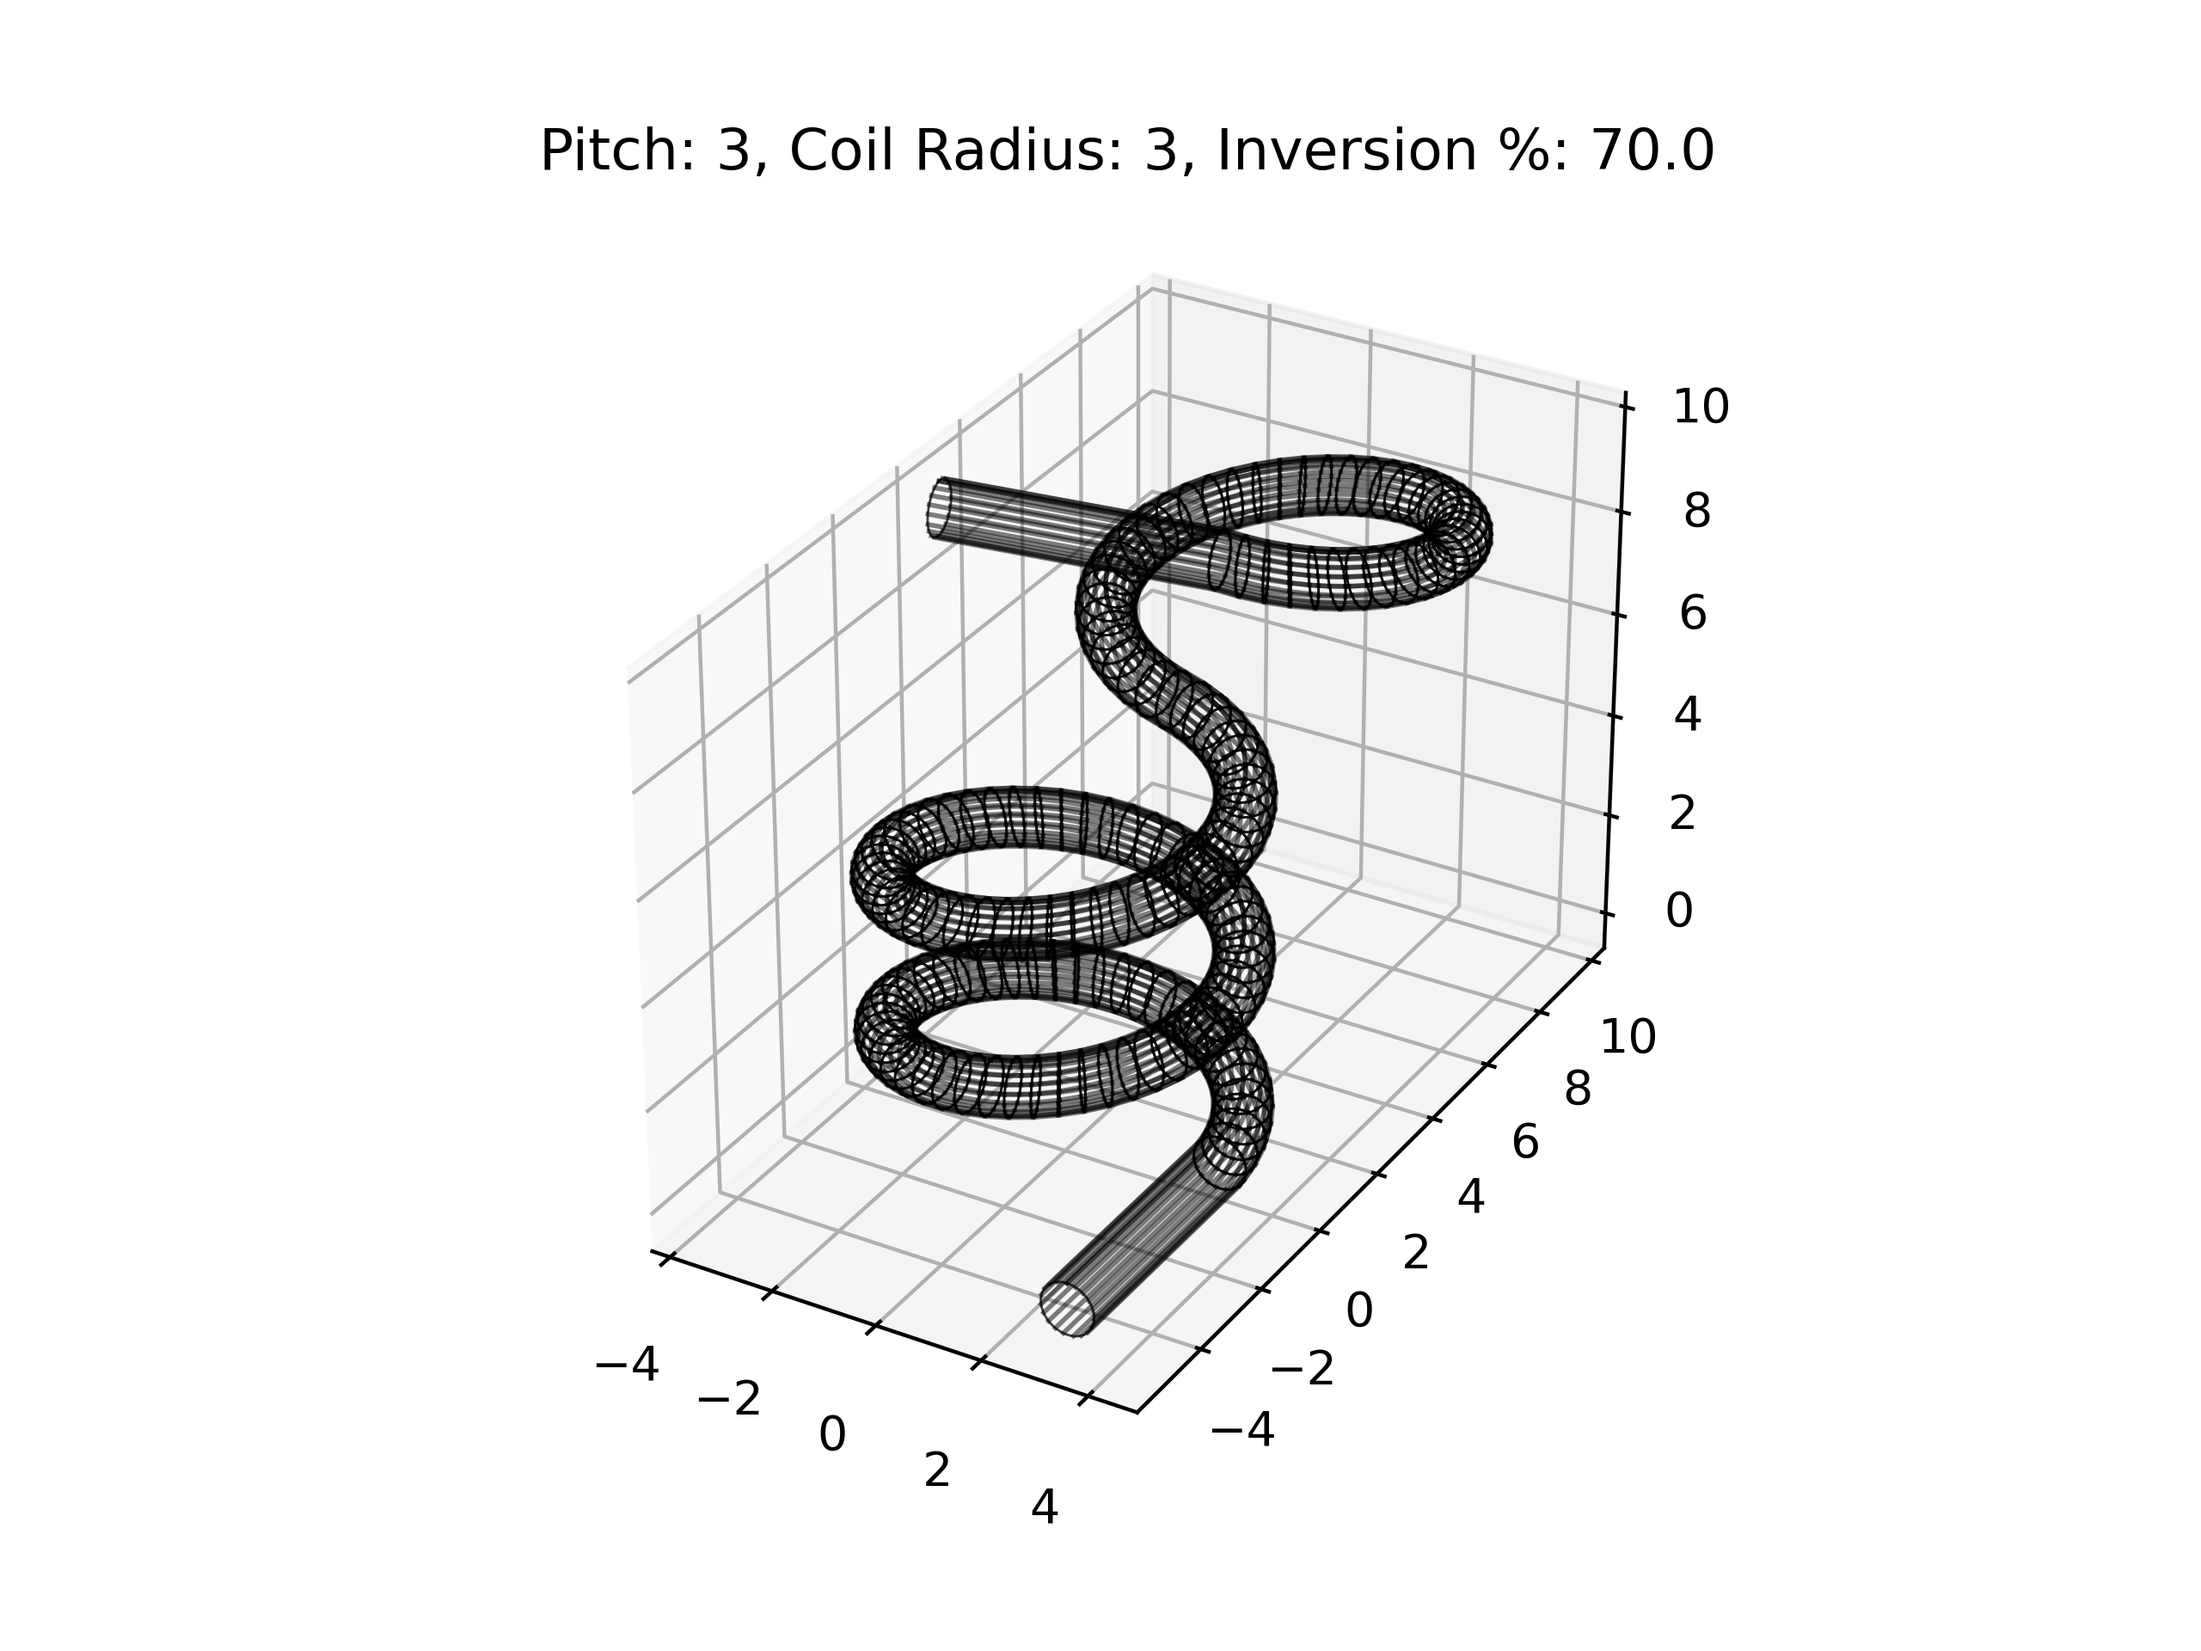
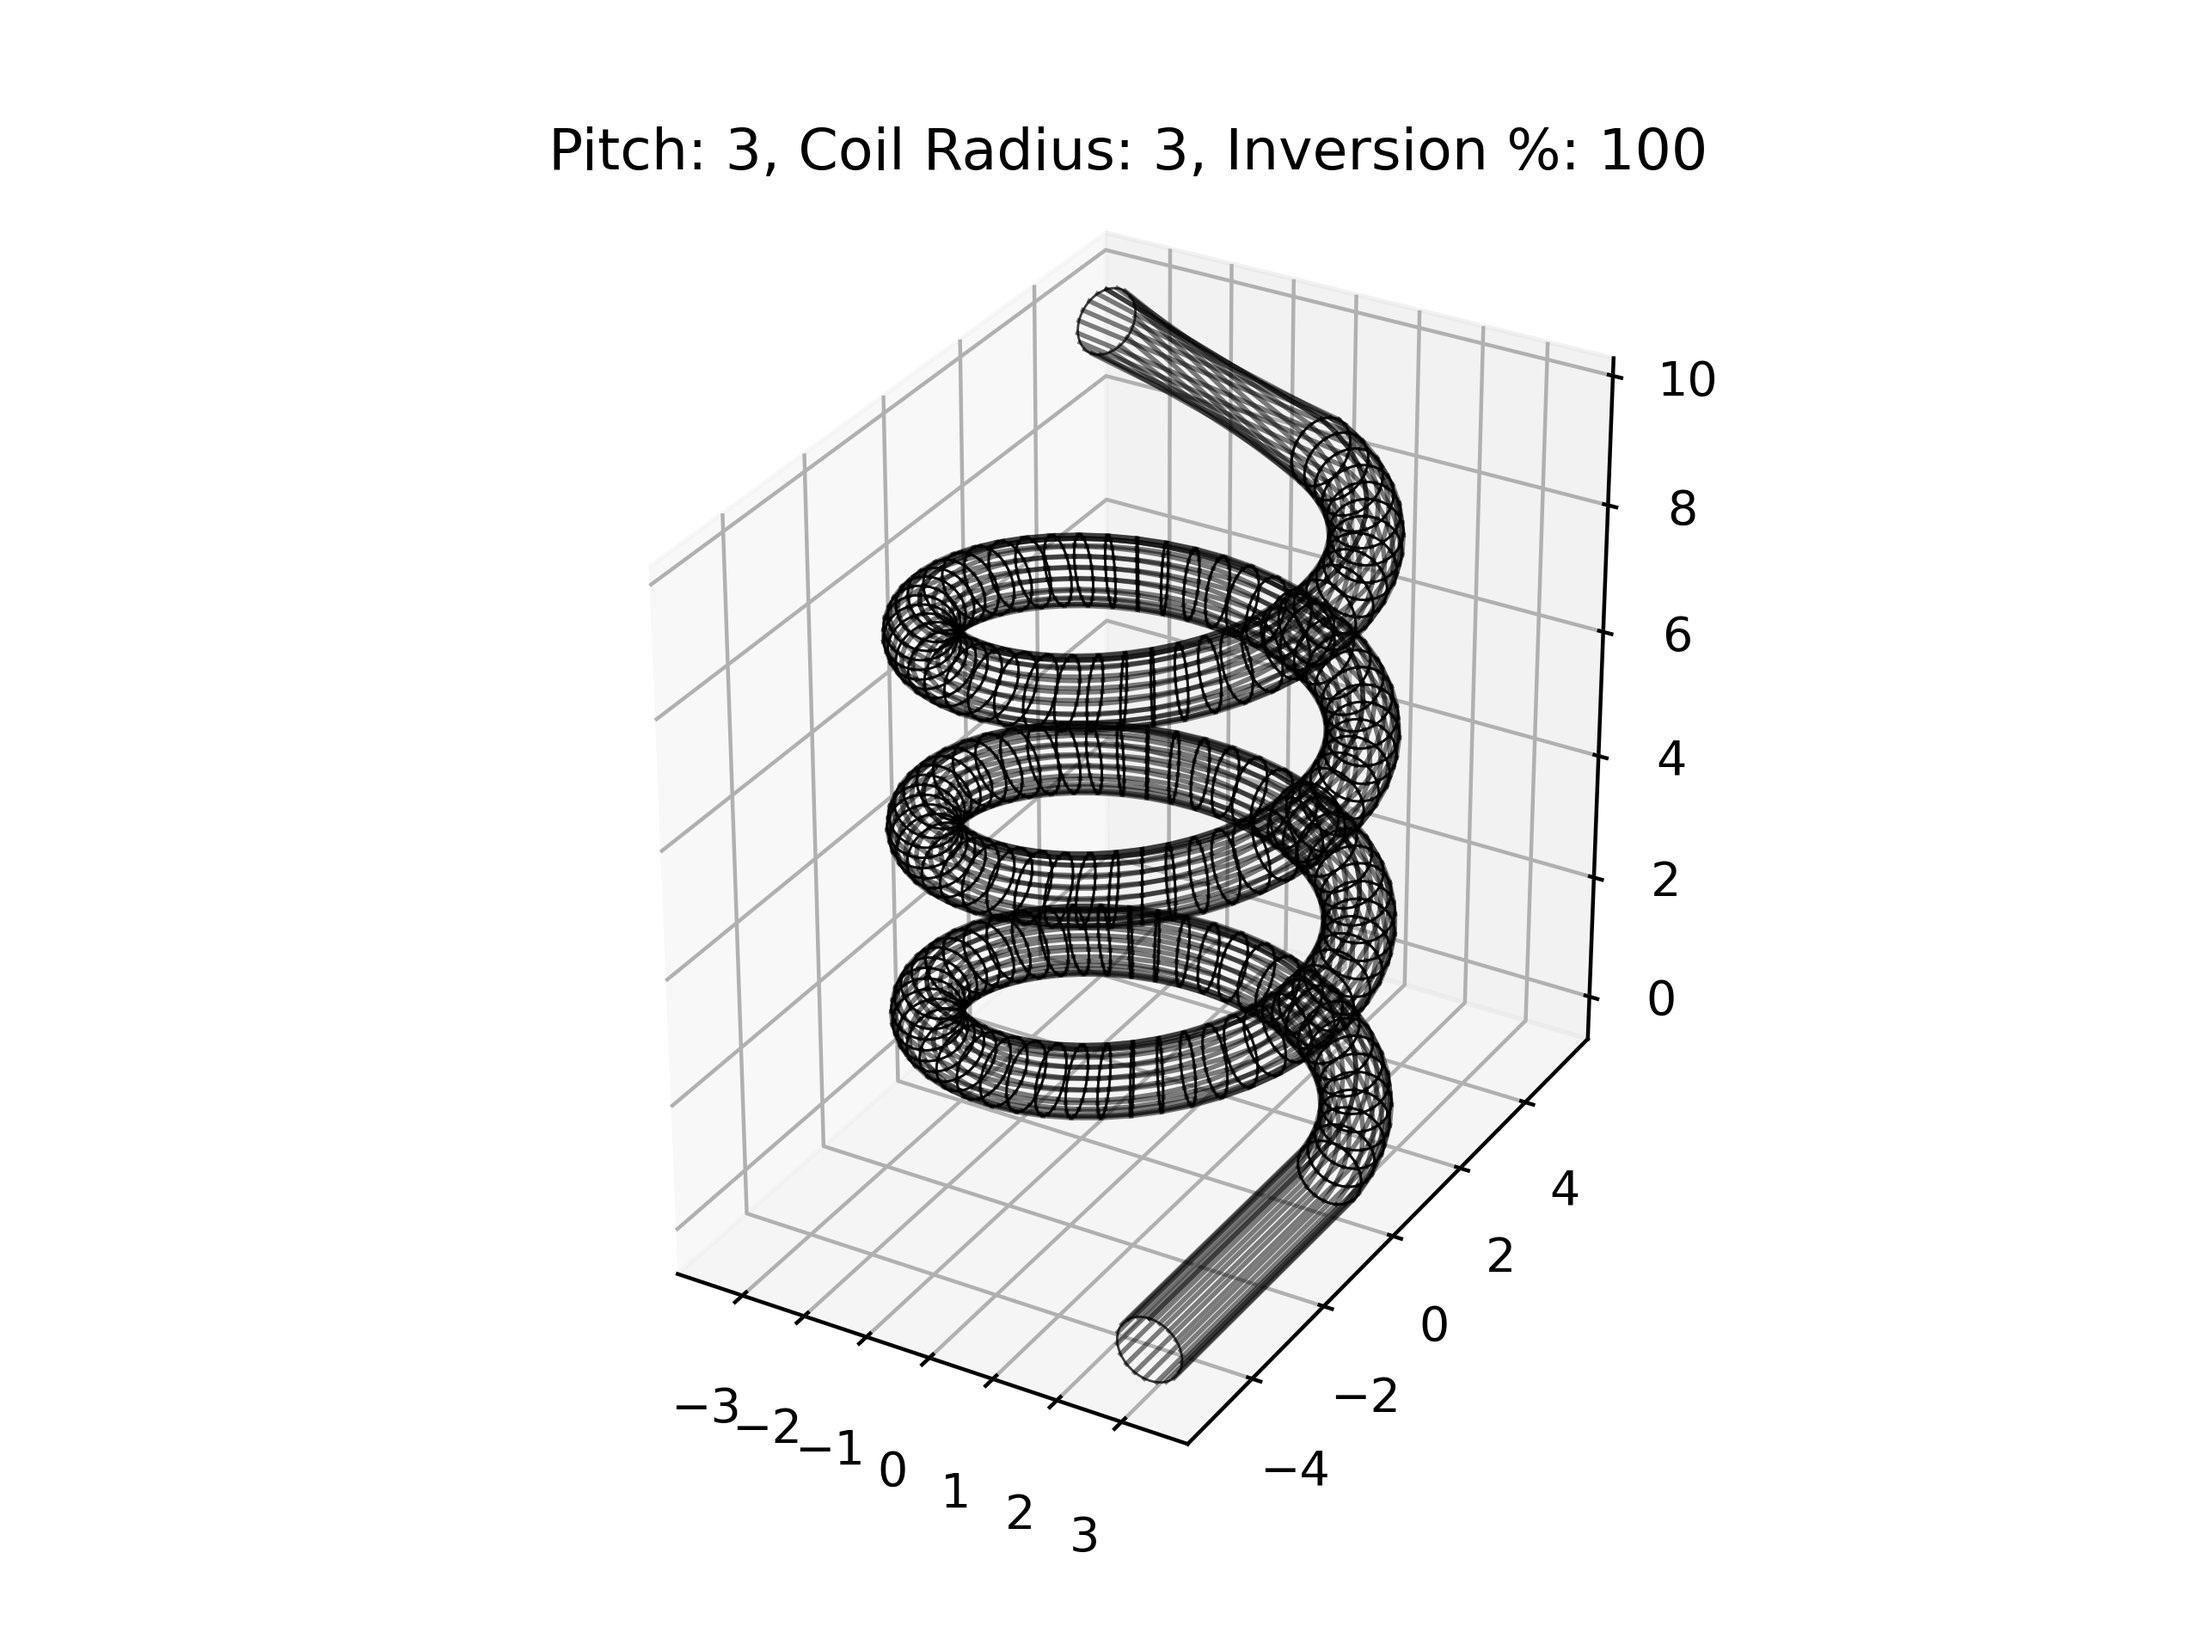
added inversion

diff --git a/mesh_generation/coil_basic.py b/mesh_generation/coil_basic.py
@@ -115,8 +115,15 @@ def create_mesh(coil_rad, tube_rad, pitch, length, inversion_loc, path):
     port_len = tube_rad*10
     start_dx =  data['x'][0] 
     start_dy =  data['y'][0] - port_len 
-    end_dx = data['x'][-1] + port_len * np.sin(new_tv-dt)
-    end_dy = data['y'][-1] - port_len * np.cos(new_tv-dt) 
+    if inversion_loc is not None:
+        end_theta = new_tv-dt
+        end_dx = data['x'][-1] + port_len * np.sin(end_theta)
+        end_dy = data['y'][-1] - port_len * np.cos(end_theta) 
+    else:
+        end_theta = 2*np.pi*coils
+        end_dx = data['x'][-1] - port_len * np.sin(end_theta)
+        end_dy = data['y'][-1] + port_len * np.cos(end_theta) 
+
 
     data['x'] = np.append(np.append([start_dx],data['x']),[end_dx]) 
     data['y'] = np.append(np.append([start_dy],data['y']),[end_dy]) 
@@ -265,7 +272,9 @@ def create_mesh(coil_rad, tube_rad, pitch, length, inversion_loc, path):
 
 tube_rad = 0.5
 length = 60
+
 coil_rad = 3
 pitch = 3
-inversion_loc = 0.7
+inversion_loc = None
+
 create_mesh(coil_rad, tube_rad, pitch, length, inversion_loc, path="coil_basic")
